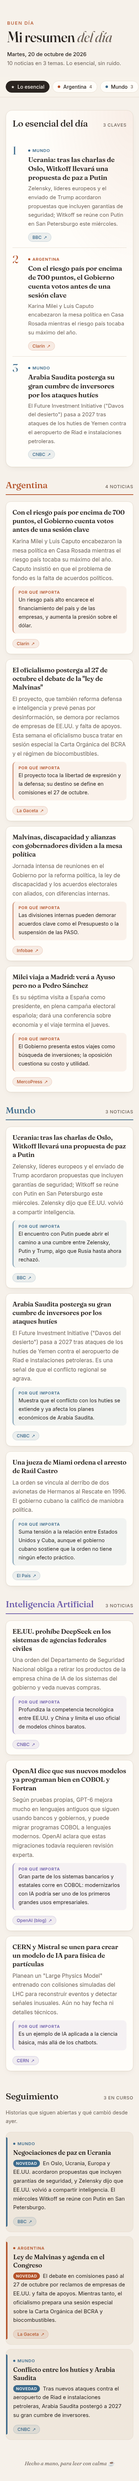
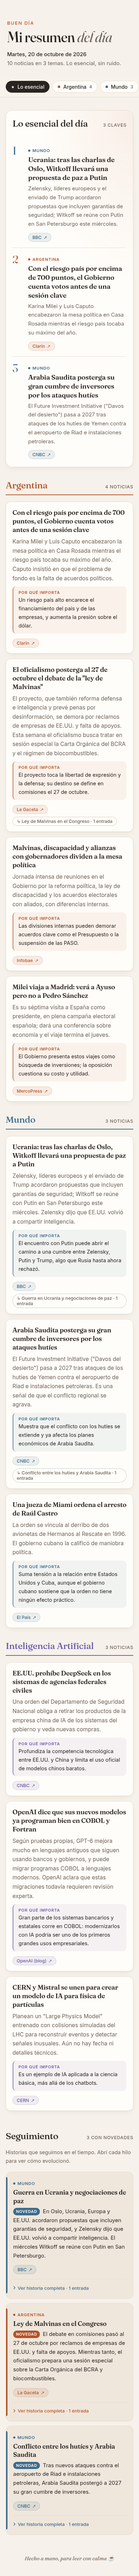
Agrega hilos para seguir historias

diff --git a/app.js b/app.js
@@ -3,6 +3,12 @@
   var esc = function (s) { var d = document.createElement("div"); d.textContent = s == null ? "" : String(s); return d.innerHTML; };
   var slug = function (s) { return String(s).toLowerCase().normalize("NFD").replace(/[\u0300-\u036f]/g, "").replace(/[^a-z0-9]+/g, "-"); };
   var $ = function (id) { return document.getElementById(id); };
+  var HILOS = window.HILOS || {};
+  var hoy = datos.fecha || new Date().toISOString().slice(0, 10);
+  var dias = function (a, b) { return Math.round((new Date(b + "T12:00:00") - new Date(a + "T12:00:00")) / 864e5); };
+  var fechaCorta = function (iso) { return new Date(iso + "T12:00:00").toLocaleDateString("es-AR", { day: "numeric", month: "short", year: "numeric" }); };
+  var nombreHilo = function (id) { return (HILOS[id] && HILOS[id].nombre) || id; };
+
   var fuente = function (x) {
     return x.fuente ? '<a class="fuente" href="' + esc(x.url || "#") + '" target="_blank" rel="noopener">' + esc(x.fuente) + ' <span aria-hidden="true">↗</span></a>' : "";
   };
@@ -44,22 +50,62 @@
     (t.noticias || []).forEach(function (x) {
       html += '<article class="nota"><h3>' + esc(x.titulo) + "</h3>" + (x.resumen ? "<p>" + esc(x.resumen) + "</p>" : "") +
         (x.porQueImporta ? '<p class="importa"><strong>Por qué importa</strong> ' + esc(x.porQueImporta) + "</p>" : "") +
-        fuente(x) + "</article>";
+        '<div class="pie-nota">' + fuente(x) + (x.hilo ? '<a class="hilo-chip" href="#hilo-' + esc(x.hilo) + '" data-hilo="' + esc(x.hilo) + '">↳ ' + esc(nombreHilo(x.hilo)) +
+          ((window.HILOS || {})[x.hilo] ? " · " + (window.HILOS[x.hilo].entradas || []).length + ((window.HILOS[x.hilo].entradas || []).length === 1 ? " entrada" : " entradas") : "") + "</a>" : "") + "</div></article>";
     });
     html += "</div></section>";
   });
   $("temas").innerHTML = html || (esencial.length ? "" : "<p>No hay noticias cargadas.</p>");
 
   var seg = datos.seguimiento || [];
-  if (seg.length) {
-    nav += '<a class="nav-seg" href="#seguimiento">Seguimiento<span>' + seg.length + "</span></a>";
-    var s = '<div class="bloque-cab"><h2>Seguimiento</h2><span class="cuenta">' + seg.length + ' en curso</span></div><p class="seg-intro">Historias que siguen abiertas y qué cambió desde ayer.</p><ul class="seg-lista">';
-    seg.forEach(function (x) {
-      s += '<li class="' + clase(x.tema) + '">' + (x.tema ? '<span class="etiqueta">' + esc(x.tema) + "</span>" : "") +
-        "<h3>" + esc(x.historia) + "</h3>" + (x.novedad ? '<p><span class="nuevo">Novedad</span> ' + esc(x.novedad) + "</p>" : "") + fuente(x) + "</li>";
-    });
-    $("seguimiento").innerHTML = s + "</ul>";
+  var enSeg = {};
+  seg.forEach(function (x) { enSeg[x.hilo] = x; });
+  var otros = Object.keys(HILOS).filter(function (id) { return !enSeg[id]; })
+    .sort(function (a, b) { return (HILOS[b].actualizado || "").localeCompare(HILOS[a].actualizado || ""); });
+
+  var hiloHTML = function (id, x) {
+    var H = HILOS[id] || { entradas: [] }, ent = H.entradas || [];
+    var c = clase(H.tema), out = '<li id="hilo-' + esc(id) + '" class="' + c + '">' +
+      (H.tema ? '<span class="etiqueta">' + esc(H.tema) + "</span>" : "") + "<h3>" + esc(nombreHilo(id)) + "</h3>";
+    var prev = ent.filter(function (e) { return e.fecha < hoy; })[0];
+    if (x) {
+      if (prev) { var n = dias(prev.fecha, hoy); out += '<p class="hace">Última novedad anterior: hace ' + n + (n === 1 ? " día" : " días") + " (" + fechaCorta(prev.fecha) + ")</p>"; }
+      if (x.novedad) out += '<p><span class="nuevo">Novedad</span> ' + esc(x.novedad) + "</p>";
+      out += fuente(x);
+    } else if (H.actualizado) {
+      out += '<p class="hace">Última novedad: ' + fechaCorta(H.actualizado) + " · hace " + dias(H.actualizado, hoy) + " días</p>";
+    }
+    if (ent.length) {
+      out += '<details class="linea"><summary>Ver historia completa · ' + ent.length + (ent.length === 1 ? " entrada" : " entradas") + "</summary><ol>";
+      ent.forEach(function (e) {
+        out += '<li><time datetime="' + esc(e.fecha) + '">' + fechaCorta(e.fecha) + "</time><strong>" + esc(e.titulo) + "</strong>" +
+          (e.resumen ? "<span>" + esc(e.resumen) + "</span>" : "") + fuente(e) + "</li>";
+      });
+      out += "</ol></details>";
+    }
+    return out + "</li>";
+  };
+
+  if (seg.length || otros.length) {
+    nav += '<a class="nav-seg" href="#seguimiento">Hilos<span>' + (seg.length + otros.length) + "</span></a>";
+    var s = '<div class="bloque-cab"><h2>Seguimiento</h2><span class="cuenta">' + seg.length + " con novedades</span></div>" +
+      '<p class="seg-intro">Historias que seguimos en el tiempo. Abrí cada hilo para ver cómo evolucionó.</p>';
+    if (seg.length) s += '<ul class="seg-lista">' + seg.map(function (x) { return hiloHTML(x.hilo, x); }).join("") + "</ul>";
+    if (otros.length) s += '<h4 class="seg-sub">Otros hilos</h4><ul class="seg-lista dormidos">' + otros.map(function (id) { return hiloHTML(id, null); }).join("") + "</ul>";
+    $("seguimiento").innerHTML = s;
     $("seguimiento").hidden = false;
   }
+
+  document.addEventListener("click", function (ev) {
+    var a = ev.target.closest && ev.target.closest("a.hilo-chip");
+    if (!a) return;
+    var el = document.getElementById("hilo-" + a.getAttribute("data-hilo"));
+    if (!el) return;
+    ev.preventDefault();
+    var det = el.querySelector("details"); if (det) det.open = true;
+    el.scrollIntoView({ behavior: "smooth", block: "start" });
+    el.classList.remove("resaltado"); void el.offsetWidth; el.classList.add("resaltado");
+    history.replaceState(null, "", "#hilo-" + a.getAttribute("data-hilo"));
+  });
   $("nav").innerHTML = nav;
 })();

diff --git a/noticias.js b/noticias.js
@@ -16,9 +16,10 @@ window.NOTICIAS = {
         {
           "titulo": "El oficialismo posterga al 27 de octubre el debate de la \"ley de Malvinas\"",
           "resumen": "El proyecto, que también reforma defensa e inteligencia y prevé penas por desinformación, se demora por reclamos de empresas de EE.UU. y falta de apoyos. Esta semana el oficialismo busca tratar en sesión especial la Carta Orgánica del BCRA y el régimen de biocombustibles.",
+          "porQueImporta": "El proyecto toca la libertad de expresión y la defensa; su destino se define en comisiones el 27 de octubre.",
           "fuente": "La Gaceta",
           "url": "https://www.lagaceta.com.ar/nota/1158812/politica/gobierno-milei-posterga-debate-ley-malvinas-reclamos-empresas-eeuu.html",
-          "porQueImporta": "El proyecto toca la libertad de expresión y la defensa; su destino se define en comisiones el 27 de octubre."
+          "hilo": "ley-malvinas"
         },
         {
           "titulo": "Malvinas, discapacidad y alianzas con gobernadores dividen a la mesa política",
@@ -42,16 +43,18 @@ window.NOTICIAS = {
         {
           "titulo": "Ucrania: tras las charlas de Oslo, Witkoff llevará una propuesta de paz a Putin",
           "resumen": "Zelensky, líderes europeos y el enviado de Trump acordaron propuestas que incluyen garantías de seguridad; Witkoff se reúne con Putin en San Petersburgo este miércoles. Zelensky dijo que EE.UU. volvió a compartir inteligencia.",
+          "porQueImporta": "El encuentro con Putin puede abrir el camino a una cumbre entre Zelensky, Putin y Trump, algo que Rusia hasta ahora rechazó.",
           "fuente": "BBC",
           "url": "https://www.bbc.com/news/articles/cq5ynkx3xy11o",
-          "porQueImporta": "El encuentro con Putin puede abrir el camino a una cumbre entre Zelensky, Putin y Trump, algo que Rusia hasta ahora rechazó."
+          "hilo": "guerra-ucrania"
         },
         {
           "titulo": "Arabia Saudita posterga su gran cumbre de inversores por los ataques hutíes",
           "resumen": "El Future Investment Initiative (\"Davos del desierto\") pasa a 2027 tras ataques de los hutíes de Yemen contra el aeropuerto de Riad e instalaciones petroleras. Es una señal de que el conflicto regional se agrava.",
+          "porQueImporta": "Muestra que el conflicto con los hutíes se extiende y ya afecta los planes económicos de Arabia Saudita.",
           "fuente": "CNBC",
           "url": "https://www.cnbc.com/2026/10/19/saudi-arabia-postpones-fii-investor-conference-to-2027.html",
-          "porQueImporta": "Muestra que el conflicto con los hutíes se extiende y ya afecta los planes económicos de Arabia Saudita."
+          "hilo": "hutis-arabia-saudita"
         },
         {
           "titulo": "Una jueza de Miami ordena el arresto de Raúl Castro",
@@ -114,22 +117,19 @@ window.NOTICIAS = {
   ],
   "seguimiento": [
     {
-      "historia": "Negociaciones de paz en Ucrania",
-      "tema": "Mundo",
+      "hilo": "guerra-ucrania",
       "novedad": "En Oslo, Ucrania, Europa y EE.UU. acordaron propuestas que incluyen garantías de seguridad, y Zelensky dijo que EE.UU. volvió a compartir inteligencia. El miércoles Witkoff se reúne con Putin en San Petersburgo.",
       "fuente": "BBC",
       "url": "https://www.bbc.com/news/articles/cq5ynkx3xy11o"
     },
     {
-      "historia": "Ley de Malvinas y agenda en el Congreso",
-      "tema": "Argentina",
+      "hilo": "ley-malvinas",
       "novedad": "El debate en comisiones pasó al 27 de octubre por reclamos de empresas de EE.UU. y falta de apoyos. Mientras tanto, el oficialismo prepara una sesión especial sobre la Carta Orgánica del BCRA y biocombustibles.",
       "fuente": "La Gaceta",
       "url": "https://www.lagaceta.com.ar/nota/1158812/politica/gobierno-milei-posterga-debate-ley-malvinas-reclamos-empresas-eeuu.html"
     },
     {
-      "historia": "Conflicto entre los hutíes y Arabia Saudita",
-      "tema": "Mundo",
+      "hilo": "hutis-arabia-saudita",
       "novedad": "Tras nuevos ataques contra el aeropuerto de Riad e instalaciones petroleras, Arabia Saudita postergó a 2027 su gran cumbre de inversores.",
       "fuente": "CNBC",
       "url": "https://www.cnbc.com/2026/10/19/saudi-arabia-postpones-fii-investor-conference-to-2027.html"

diff --git a/styles.css b/styles.css
@@ -96,8 +96,8 @@ h3{margin:0 0 8px;font:600 1.28rem/1.3 var(--serif);letter-spacing:-.01em}
 .seguimiento h2{color:var(--txt)}
 .seg-intro{margin:0 0 18px;color:var(--suave);font-size:14.5px}
 .seg-lista{list-style:none;margin:0;padding:0;display:grid;gap:12px}
-.seg-lista li{position:relative;padding:18px 22px 18px 26px;border-radius:14px;background:var(--bg2);border:1px solid var(--linea)}
-.seg-lista li::before{content:"";position:absolute;left:0;top:14px;bottom:14px;width:4px;border-radius:0 4px 4px 0;background:var(--ac)}
+.seg-lista > li{position:relative;padding:18px 22px 18px 26px;border-radius:14px;background:var(--bg2);border:1px solid var(--linea)}
+.seg-lista > li::before{content:"";position:absolute;left:0;top:14px;bottom:14px;width:4px;border-radius:0 4px 4px 0;background:var(--ac)}
 .seg-lista h3{font-size:1.12rem;margin-bottom:6px}
 .seg-lista p{margin:0 0 12px;font-size:15px;color:var(--txt)}
 .nuevo{display:inline-block;margin-right:4px;padding:1px 8px;border-radius:999px;font:600 11px/1.7 var(--sans);letter-spacing:.06em;text-transform:uppercase;
@@ -107,5 +107,29 @@ h3{margin:0 0 8px;font:600 1.28rem/1.3 var(--serif);letter-spacing:-.01em}
   .esencial{margin-top:28px;padding:22px 18px 6px;border-radius:18px}
   .esencial-lista li{grid-template-columns:38px 1fr}
   .num{font-size:2rem}
-  .seg-lista li{padding:16px 16px 16px 20px}
+  .seg-lista > li{padding:16px 16px 16px 20px}
 }
+
+/* Hilos */
+.pie-nota{display:flex;flex-wrap:wrap;align-items:center;gap:8px}
+.hilo-chip{display:inline-flex;align-items:center;padding:4px 11px;border-radius:999px;font:500 12.5px var(--sans);text-decoration:none;
+  color:var(--suave);border:1px dashed color-mix(in srgb,var(--ac) 45%,var(--linea));transition:.2s}
+.hilo-chip:hover{color:var(--ac);border-style:solid;background:color-mix(in srgb,var(--ac) 6%,transparent)}
+.hace{margin:-2px 0 10px!important;font:500 12.5px var(--sans)!important;color:var(--suave)!important}
+.seg-sub{margin:28px 0 12px;font:600 12px var(--sans);letter-spacing:.1em;text-transform:uppercase;color:var(--suave)}
+.dormidos > li{background:transparent}
+.seg-lista > li{scroll-margin-top:84px;transition:box-shadow .4s}
+.seg-lista > li.resaltado{animation:brillo 1.6s ease-out}
+@keyframes brillo{0%{box-shadow:0 0 0 3px color-mix(in srgb,var(--ac) 45%,transparent)}100%{box-shadow:0 0 0 3px transparent}}
+.linea{margin-top:14px;border-top:1px solid var(--linea);padding-top:10px}
+.linea summary{cursor:pointer;list-style:none;font:500 13px var(--sans);color:var(--ac);display:inline-flex;align-items:center;gap:6px;padding:4px 0;border-radius:6px}
+.linea summary::-webkit-details-marker{display:none}
+.linea summary::before{content:"›";display:inline-block;font-size:17px;line-height:1;transition:transform .2s}
+.linea[open] summary::before{transform:rotate(90deg)}
+.linea ol{list-style:none;margin:12px 0 4px;padding:0 0 0 18px;border-left:2px solid color-mix(in srgb,var(--ac) 30%,var(--linea))}
+.linea ol li{position:relative;padding:0 0 16px 4px;background:none;border:0}
+.linea ol li::before{content:"";position:absolute;left:-25px;top:6px;width:10px;height:10px;border-radius:50%;background:var(--card);border:2px solid var(--ac)}
+.linea time{display:block;font:600 11.5px var(--sans);letter-spacing:.06em;text-transform:uppercase;color:var(--suave)}
+.linea strong{display:block;margin:2px 0 4px;font:600 1rem/1.35 var(--serif)}
+.linea span{display:block;margin-bottom:8px;font-size:14px;color:var(--suave)}
+.linea .fuente span{display:inline;margin:0;font-size:inherit;color:inherit}

diff --git a/hilos.js b/hilos.js
@@ -1,0 +1,48 @@
+// Historial persistente de hilos. Crece cada día; nunca se reinicia.
+window.HILOS = {
+  "ley-malvinas": {
+    "nombre": "Ley de Malvinas en el Congreso",
+    "tema": "Argentina",
+    "creado": "2026-10-20",
+    "actualizado": "2026-10-20",
+    "entradas": [
+      {
+        "fecha": "2026-10-20",
+        "titulo": "El oficialismo posterga al 27 de octubre el debate de la \"ley de Malvinas\"",
+        "resumen": "El proyecto, que también reforma defensa e inteligencia y prevé penas por desinformación, se demora por reclamos de empresas de EE.UU. y falta de apoyos. Esta semana el oficialismo busca tratar en sesión especial la Carta Orgánica del BCRA y el régimen de biocombustibles.",
+        "fuente": "La Gaceta",
+        "url": "https://www.lagaceta.com.ar/nota/1158812/politica/gobierno-milei-posterga-debate-ley-malvinas-reclamos-empresas-eeuu.html"
+      }
+    ]
+  },
+  "guerra-ucrania": {
+    "nombre": "Guerra en Ucrania y negociaciones de paz",
+    "tema": "Mundo",
+    "creado": "2026-10-20",
+    "actualizado": "2026-10-20",
+    "entradas": [
+      {
+        "fecha": "2026-10-20",
+        "titulo": "Ucrania: tras las charlas de Oslo, Witkoff llevará una propuesta de paz a Putin",
+        "resumen": "Zelensky, líderes europeos y el enviado de Trump acordaron propuestas que incluyen garantías de seguridad; Witkoff se reúne con Putin en San Petersburgo este miércoles. Zelensky dijo que EE.UU. volvió a compartir inteligencia.",
+        "fuente": "BBC",
+        "url": "https://www.bbc.com/news/articles/cq5ynkx3xy11o"
+      }
+    ]
+  },
+  "hutis-arabia-saudita": {
+    "nombre": "Conflicto entre los hutíes y Arabia Saudita",
+    "tema": "Mundo",
+    "creado": "2026-10-20",
+    "actualizado": "2026-10-20",
+    "entradas": [
+      {
+        "fecha": "2026-10-20",
+        "titulo": "Arabia Saudita posterga su gran cumbre de inversores por los ataques hutíes",
+        "resumen": "El Future Investment Initiative (\"Davos del desierto\") pasa a 2027 tras ataques de los hutíes de Yemen contra el aeropuerto de Riad e instalaciones petroleras. Es una señal de que el conflicto regional se agrava.",
+        "fuente": "CNBC",
+        "url": "https://www.cnbc.com/2026/10/19/saudi-arabia-postpones-fii-investor-conference-to-2027.html"
+      }
+    ]
+  }
+};

diff --git a/index.html b/index.html
@@ -27,6 +27,7 @@
 </main>
 <footer class="pie">Hecho a mano, para leer con calma ☕</footer>
 <script src="noticias.js"></script>
+<script src="hilos.js"></script>
 <script src="app.js"></script>
 </body>
 </html>

diff --git a/README.md b/README.md
@@ -11,6 +11,7 @@ index.html     Estructura de la página
 styles.css     Estilos (incluye modo oscuro automático)
 app.js         Genera el contenido a partir de los datos
 noticias.js    Los datos: las noticias del día
+hilos.js       Historial persistente de hilos (historias en el tiempo)
 docs/          Capturas de pantalla para este README
 ```
 
@@ -33,14 +34,14 @@ window.NOTICIAS = {
       "noticias": [
         { "titulo": "...", "resumen": "1-2 oraciones.",
           "porQueImporta": "Opcional: una oración sobre por qué importa o qué sigue.",
-          "fuente": "Nombre del medio", "url": "https://..." }
+          "fuente": "Nombre del medio", "url": "https://...",
+          "hilo": "guerra-ucrania" }   // opcional: id del hilo al que pertenece
       ] }
   ],
 
-  // Opcional: historias en curso y qué cambió desde ayer ("Seguimiento")
+  // Opcional: hilos que tuvieron novedades hoy y que ya existían antes
   "seguimiento": [
-    { "historia": "Negociaciones de paz en Ucrania", "tema": "Mundo",
-      "novedad": "Qué cambió desde ayer, en 1-2 oraciones.", "fuente": "BBC", "url": "https://..." }
+    { "hilo": "guerra-ucrania", "novedad": "Qué cambió desde la última entrada.", "fuente": "BBC", "url": "https://..." }
   ]
 };
 ```
@@ -48,6 +49,35 @@ window.NOTICIAS = {
 Todos los campos nuevos son opcionales: si faltan, esa parte simplemente no se muestra. El campo `tema` de `esencial` y `seguimiento` debe coincidir con el `nombre` de un tema para tomar su color.
 
 Podés agregar o quitar temas; el menú y los contadores se generan solos. Se usa un archivo `.js` (no `.json`) para que `index.html` funcione también abierto directamente desde el disco.
+
+## Hilos (historias que se siguen en el tiempo)
+
+`hilos.js` guarda el historial completo de cada historia en curso. **Crece cada día y nunca se reinicia.**
+
+```js
+window.HILOS = {
+  "guerra-ucrania": {
+    "nombre": "Guerra en Ucrania y negociaciones de paz",
+    "tema": "Mundo",                 // debe coincidir con un tema para tomar su color
+    "creado": "2026-10-20",
+    "actualizado": "2026-10-20",     // fecha de la entrada más reciente
+    "entradas": [                    // la más nueva primero
+      { "fecha": "2026-10-20", "titulo": "...", "resumen": "...", "fuente": "BBC", "url": "https://..." }
+    ]
+  }
+};
+```
+
+En la página, cada noticia con `hilo` muestra un chip (`↳ Nombre del hilo · N entradas`) que lleva a la sección **Seguimiento**, donde cada hilo tiene su línea de tiempo desplegable. Los hilos de `seguimiento` muestran "Última novedad anterior: hace N días" (si hay una entrada previa) y la novedad; los demás aparecen en "Otros hilos".
+
+### Procedimiento diario (actualización de las 7:00)
+
+1. Para cada noticia nueva, revisá **todos** los hilos de `hilos.js`, incluidos los viejos o inactivos, comparando id, `nombre` y contenido de las entradas.
+2. Si la noticia continúa una historia existente, **reutilizá ese id** en `hilo` (aunque no haya tenido novedades en días o semanas).
+3. Si no existe y la historia probablemente siga en los próximos días, creá un hilo nuevo con un id estable en kebab-case (ej. `ley-malvinas`), `creado` = hoy. Las noticias puntuales no llevan `hilo`.
+4. Agregá la entrada del día **al principio** de `entradas` y actualizá `actualizado`.
+5. En `noticias.js`, `seguimiento` lista solo los hilos que tuvieron novedad hoy **y** ya existían antes de hoy, con `novedad` = qué cambió desde la entrada anterior.
+6. Nunca borres entradas ni hilos.
 
 ## Ver en local
 
